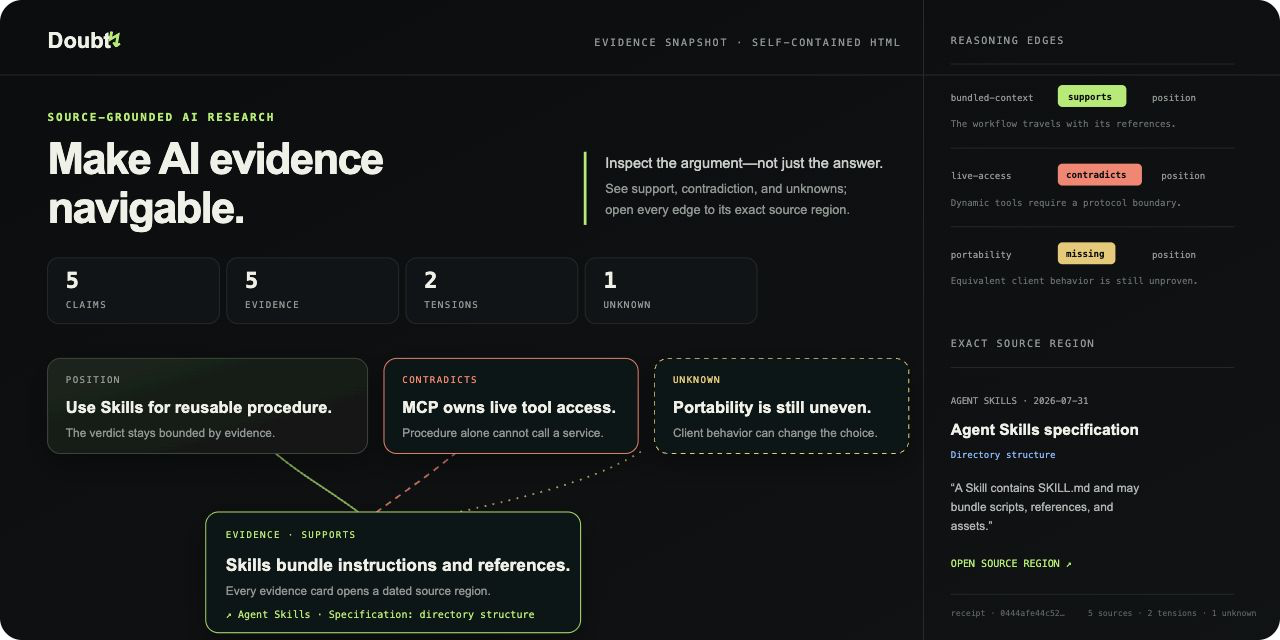
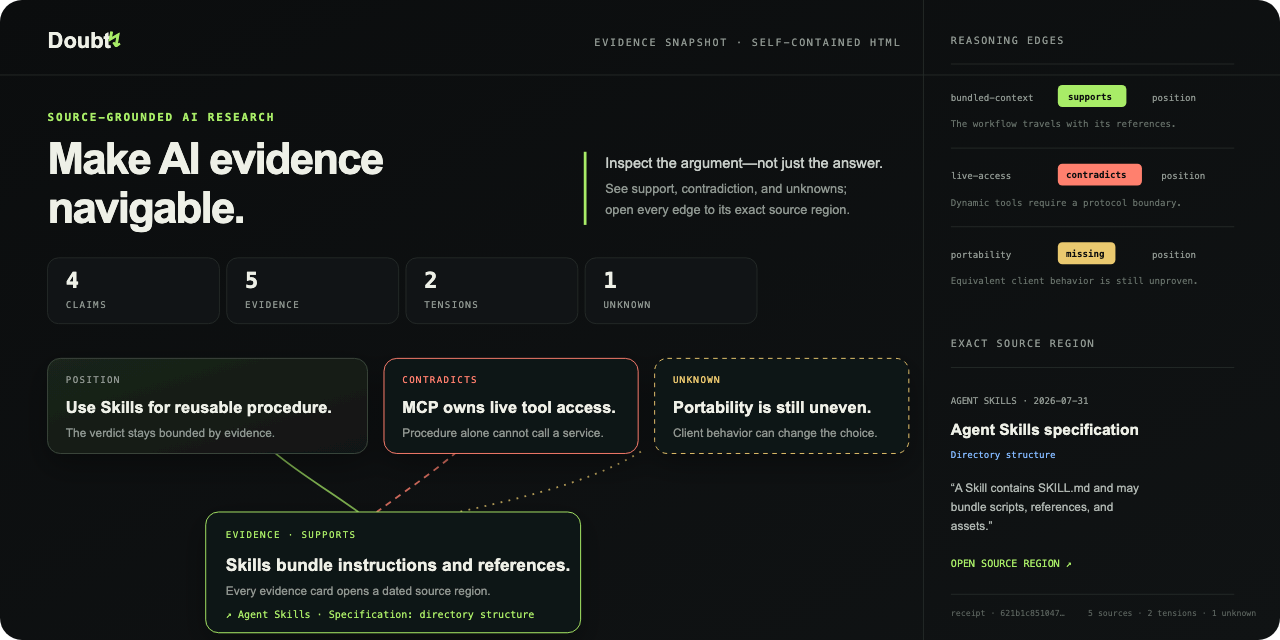
fix: keep public preview in sync

diff --git a/test/playground.test.js b/test/playground.test.js
@@ -26,6 +26,20 @@ test("browser contract and Node wrapper agree on the public example", async () =
   assert.match(renderMap(map, { ...browser, receipt: expected }), new RegExp(expected.slice(0, 12)));
 });
 
+test("public preview metrics and receipt match the canonical map", async () => {
+  const [mapJson, preview] = await Promise.all([
+    readFile("examples/agent-skills-vs-mcp.doubt.json", "utf8"),
+    readFile("docs/demo.svg", "utf8"),
+  ]);
+  const report = validateMap(JSON.parse(mapJson));
+
+  assert.match(preview, new RegExp(`>${report.metrics.claims}<\\/text>\\s*<text[^>]*>CLAIMS<`));
+  assert.match(preview, new RegExp(`>${report.metrics.evidence}<\\/text>\\s*<text[^>]*>EVIDENCE<`));
+  assert.match(preview, new RegExp(`>${report.metrics.contradictions}<\\/text>\\s*<text[^>]*>TENSIONS<`));
+  assert.match(preview, new RegExp(`>${report.metrics.unknowns}<\\/text>\\s*<text[^>]*>UNKNOWN<`));
+  assert.match(preview, new RegExp(`receipt · ${report.receipt.slice(0, 12)}…`));
+});
+
 test("playground is local-only and loads browser-safe canonical modules", async () => {
   const [page, home, contract, shareLink, workflow, robots, sitemap, llms, indexNow, indexNowKey] = await Promise.all([
     readFile("site/playground/index.html", "utf8"),
